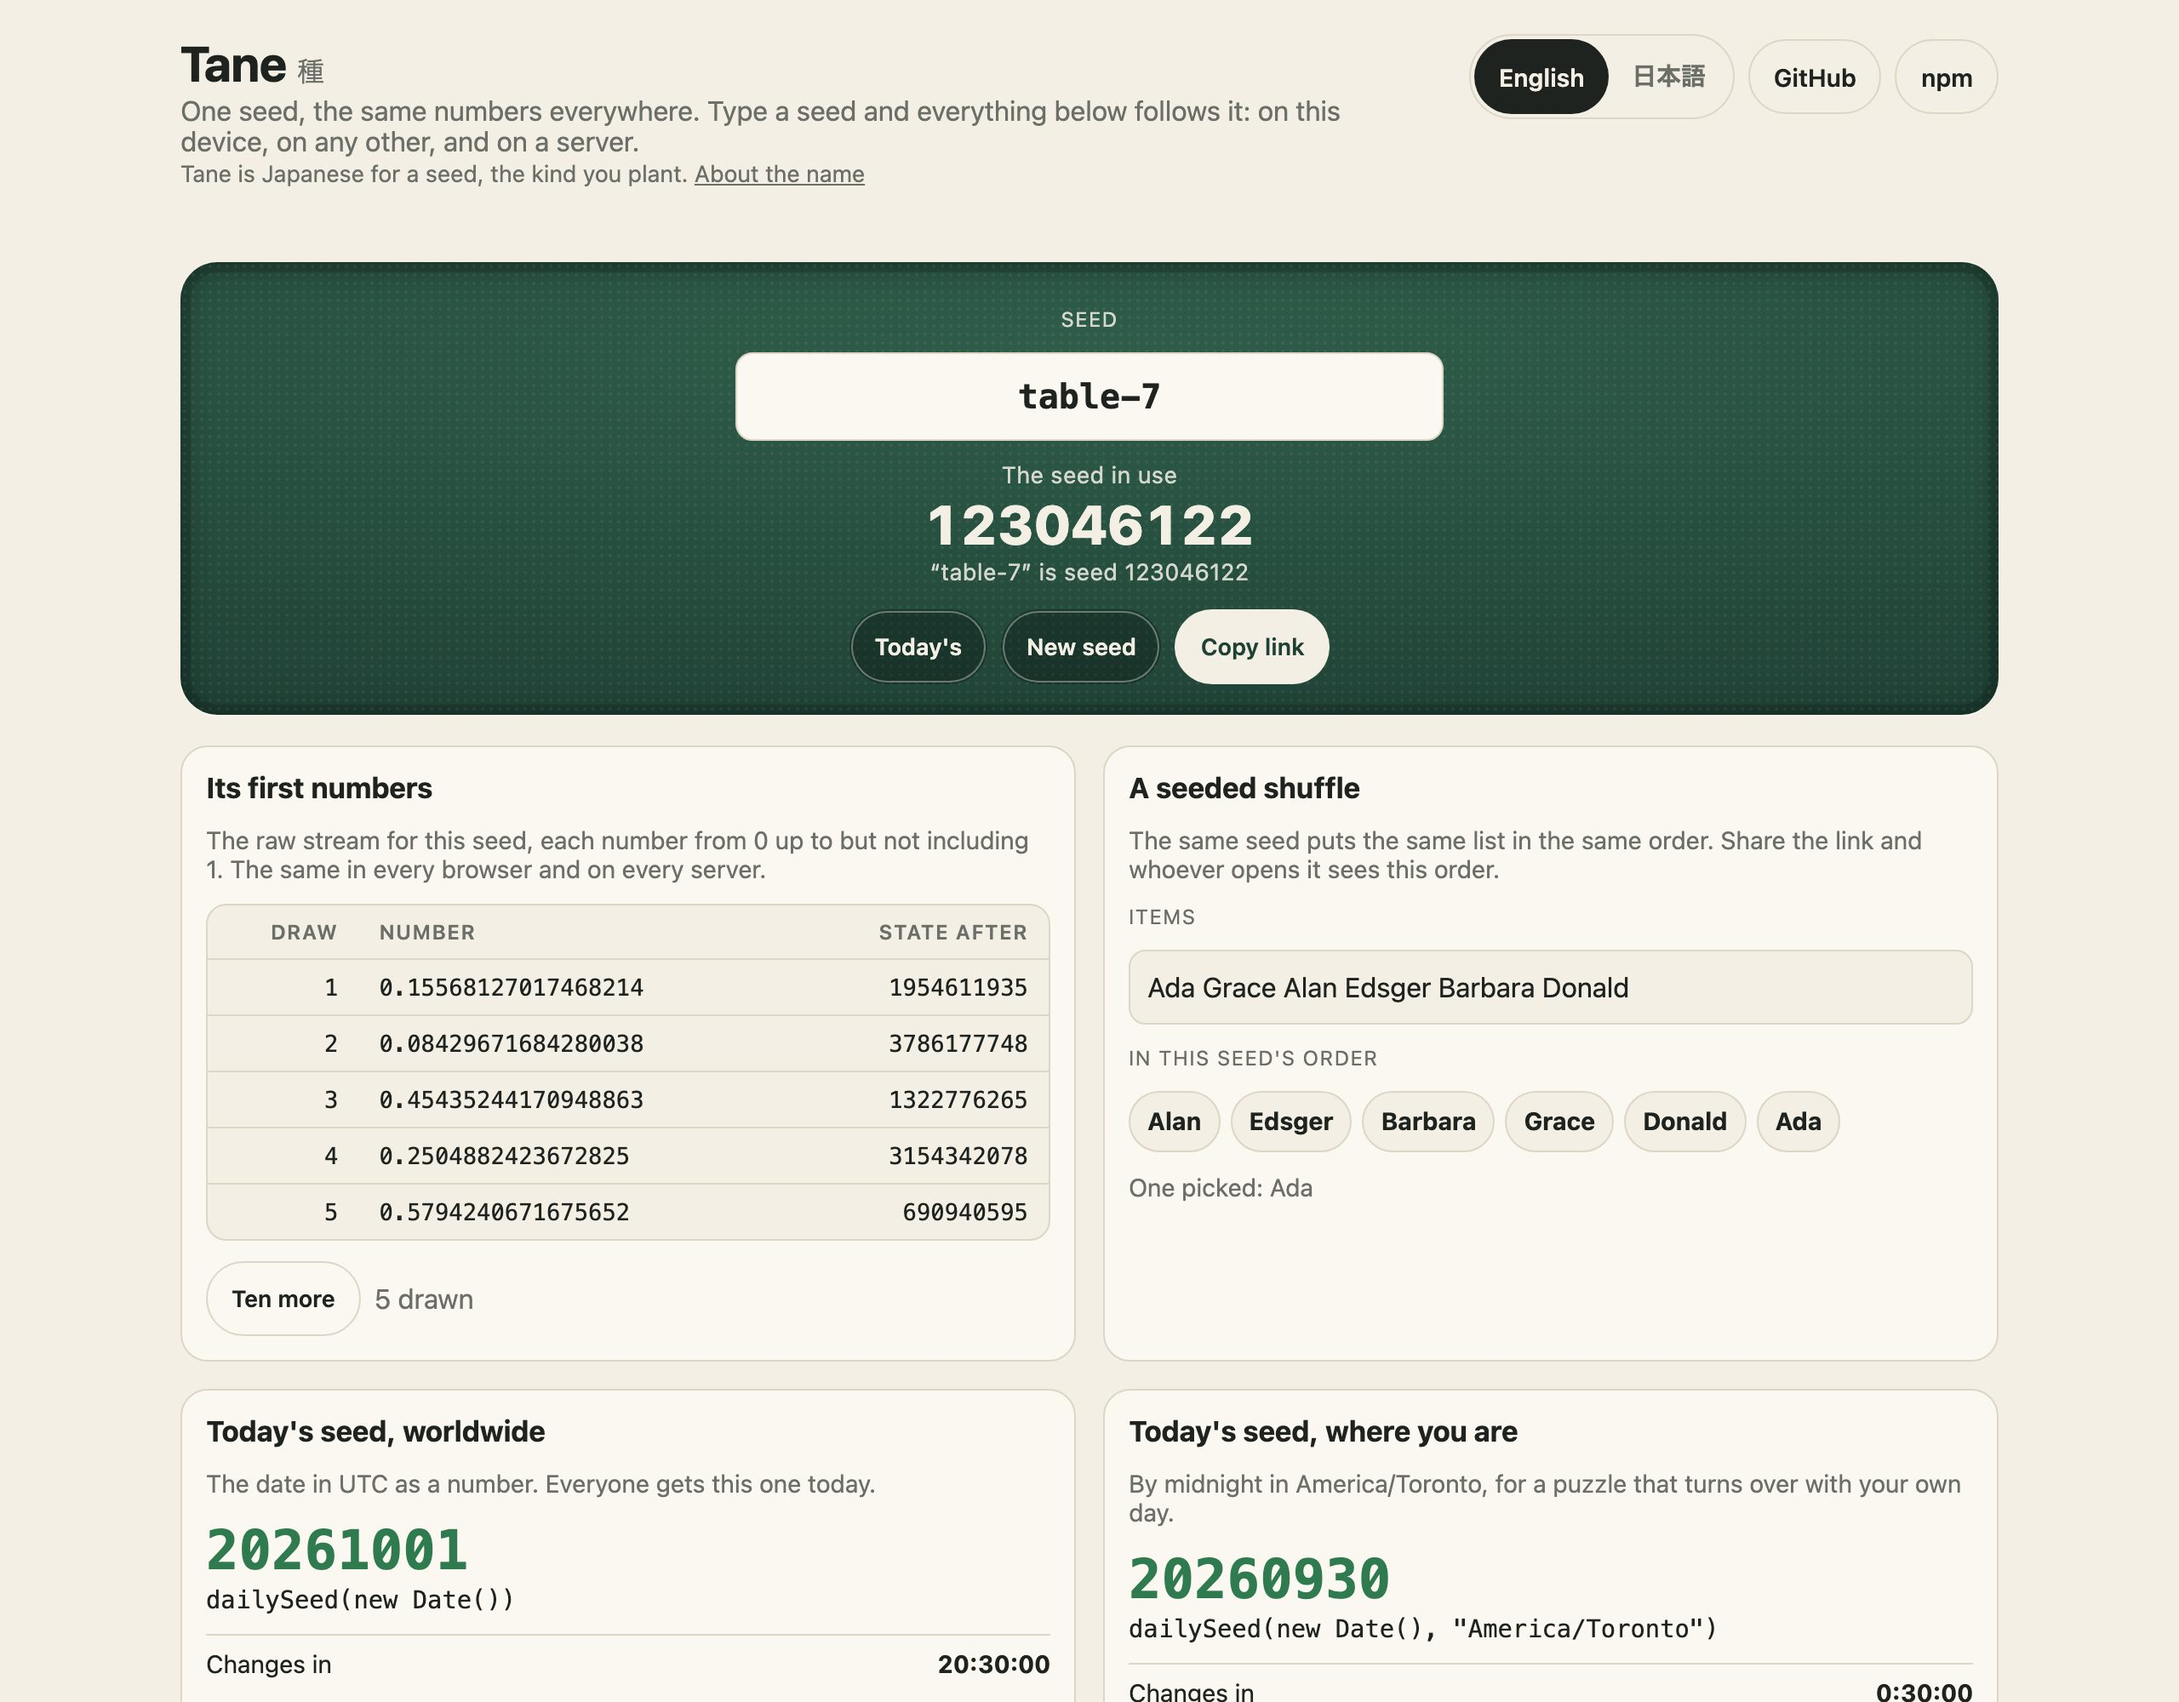
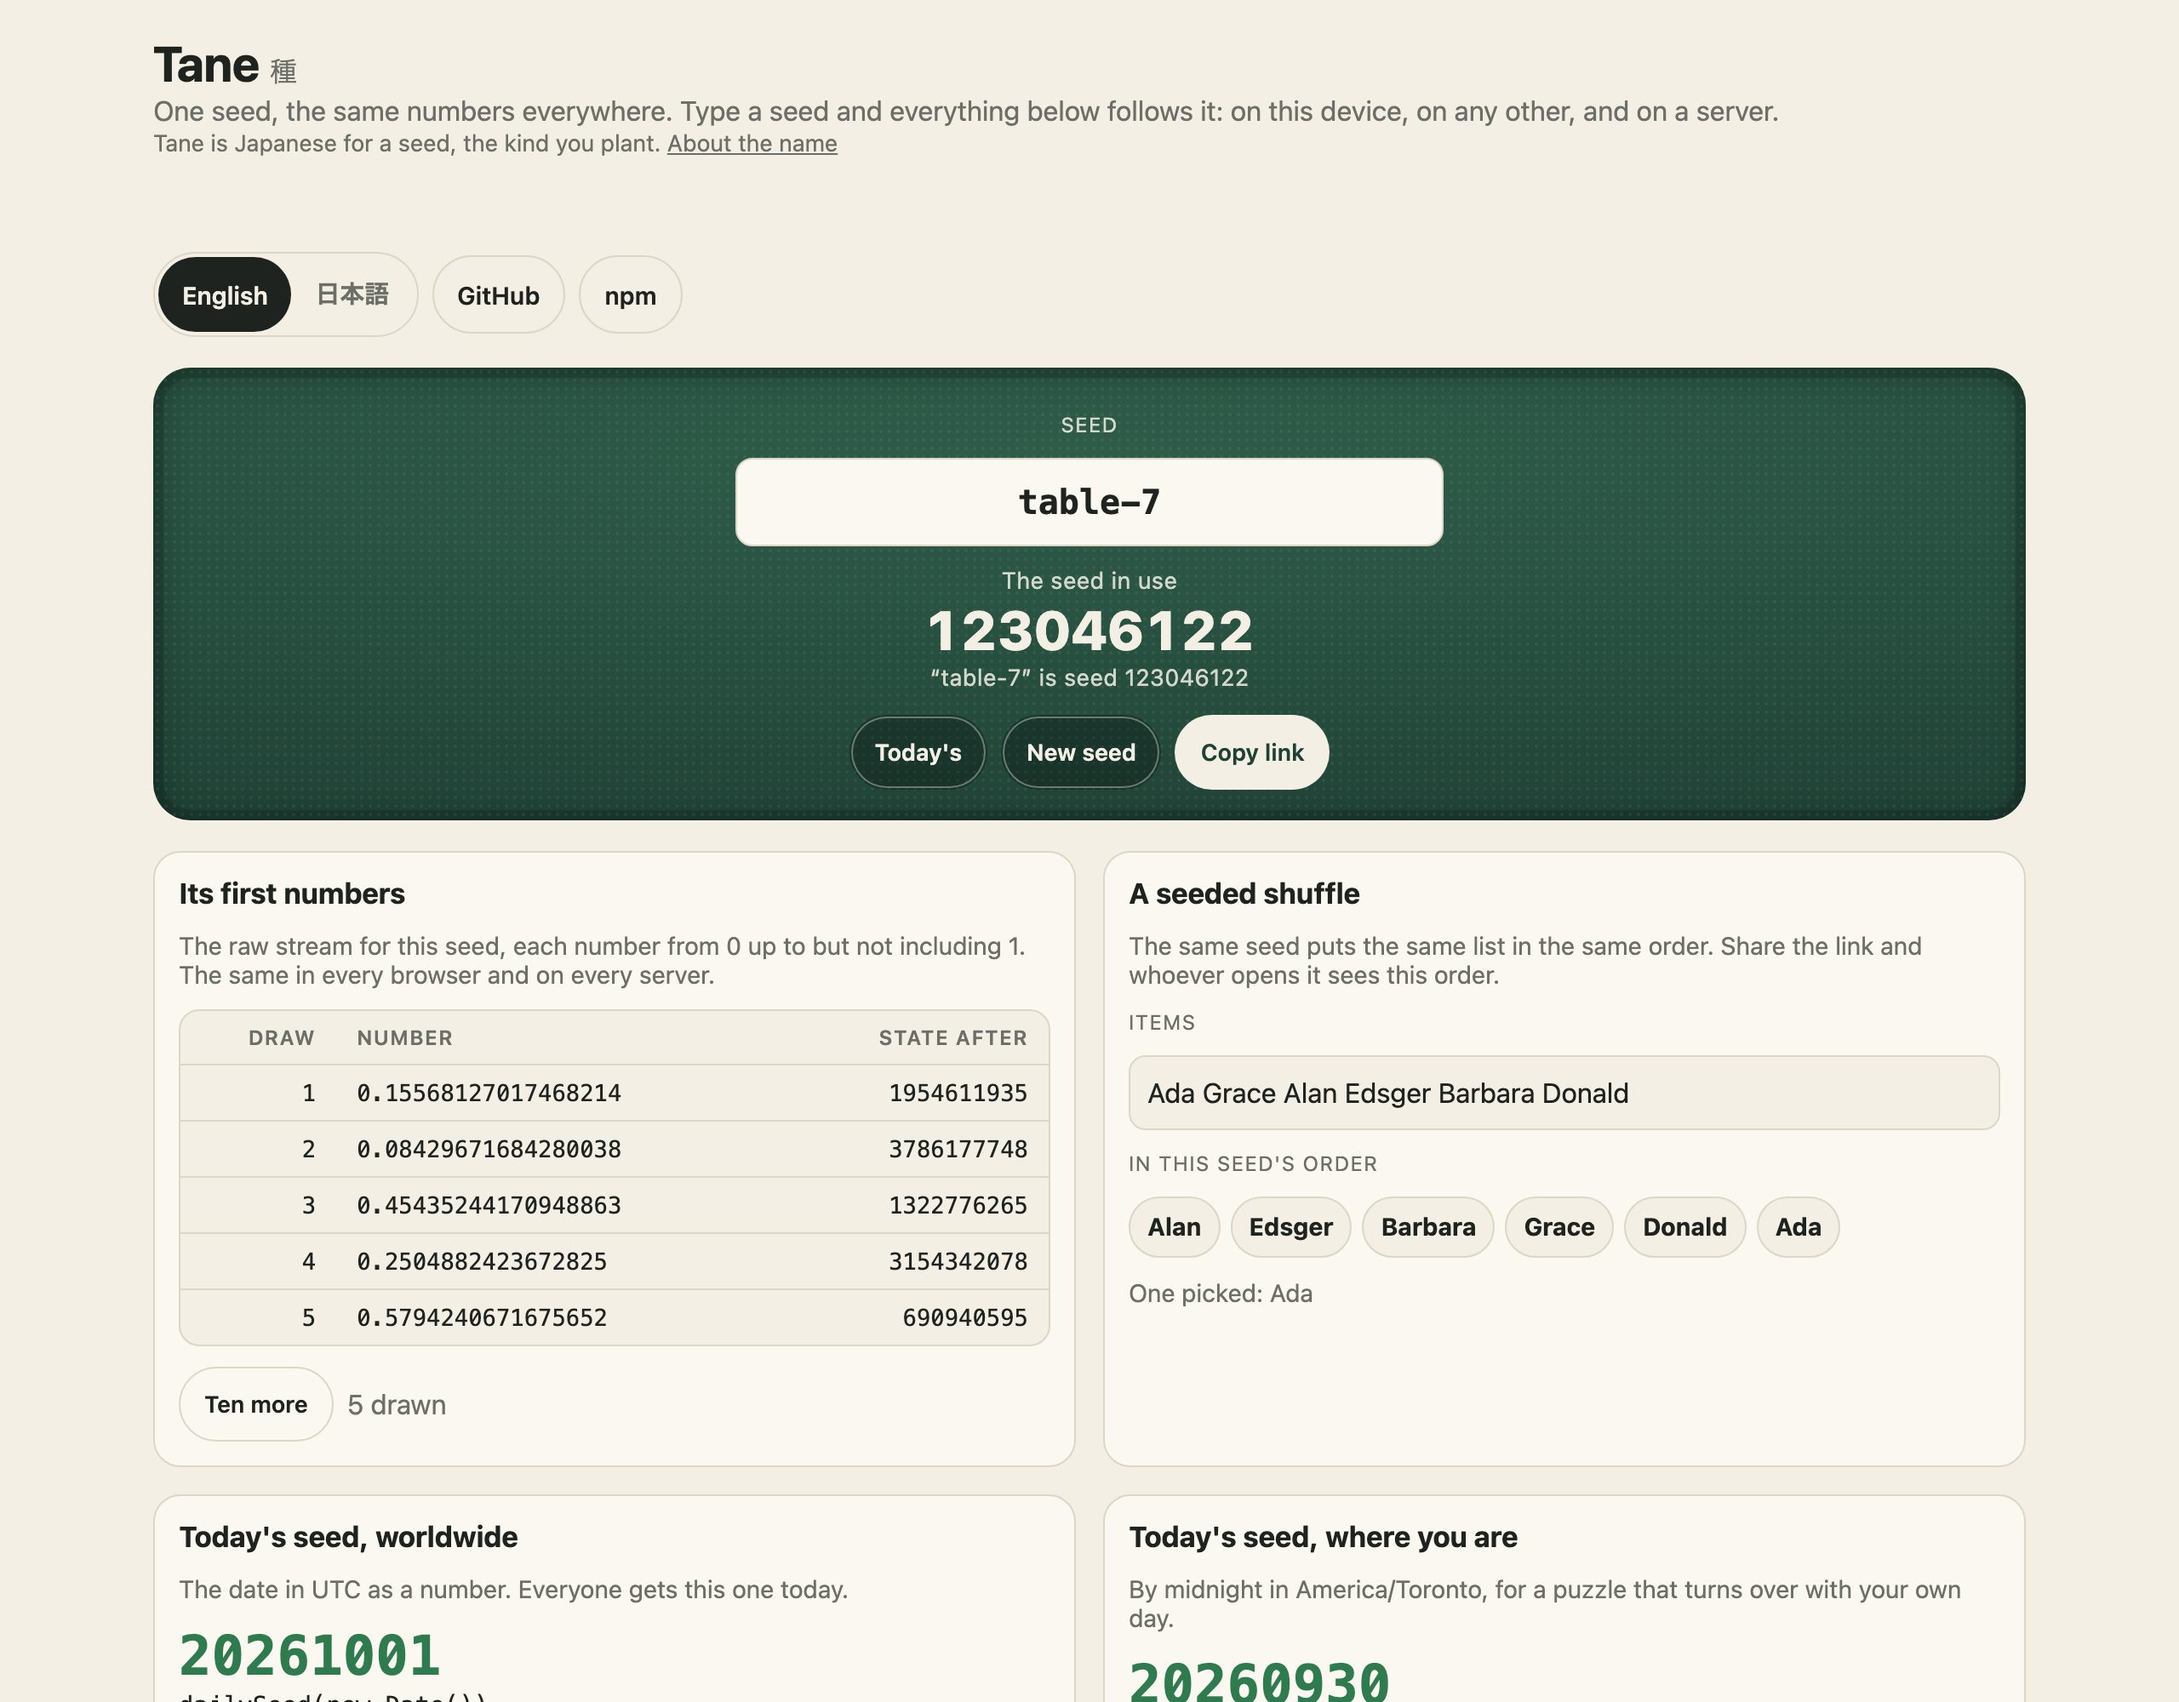
The family's stylesheet as corrected: the page's width, the header's pills and the footer's type match Korokoro's

diff --git a/demo/family.css b/demo/family.css
@@ -1,4 +1,4 @@
-/* sha256 of every line after this one: 527ca8e5c4261b555cb5c07ffe19cdf8ec85f7790b36a86a673c812631656d14 */
+/* sha256 of every line after this one: c1e392564a7fd94d0bb5cfaefb6d4fedfd147fc3e27f3a7afd8d8dac8c94a227 */
 /*
  * family.css: the one look of the johnmorrisdotca packages' demo sites
  * (korokoro, kyuubu, hitotsu, toranpu, tane, narabe, tenka, kumimoji).
@@ -50,7 +50,8 @@
 *, *::before, *::after { box-sizing: border-box; }
 html { -webkit-text-size-adjust: 100%; }
 body { margin: 0; background: var(--page); color: var(--ink); font-family: var(--font); -webkit-tap-highlight-color: transparent; }
-main { max-width: 1100px; margin: 0 auto; padding: 20px 16px 40px; }
+/* 1100px of content and a 16px gutter each side: 1132px under border-box. */
+main { max-width: 1132px; margin: 0 auto; padding: 20px 16px 40px; }
 main > * { min-width: 0; max-width: 100%; }
 a { color: inherit; }
 button, input, select, textarea { font: inherit; color: inherit; }
@@ -63,11 +64,12 @@ header { display: flex; align-items: flex-start; justify-content: space-between;
 h1 { margin: 0; font-size: 1.8rem; letter-spacing: -.01em; }
 h1 span { font-size: 1rem; color: var(--muted); margin-left: 6px; font-weight: 500; }
 header p { margin: 2px 0 0; color: var(--muted); }
-.intro { min-height: var(--intro-room); flex: 1 1 20rem; min-width: 0; }
+.intro { min-height: var(--intro-room); }
 @media (min-width: 700px) { .intro { min-height: var(--intro-room-wide); } }
 .name { margin: 2px 0 0; color: var(--muted); font-size: .85rem; }
 nav { display: flex; gap: 8px; align-items: center; flex-wrap: wrap; }
-nav a { text-decoration: none; color: inherit; border: 1px solid var(--rule); border-radius: 999px; padding: 0 14px; min-height: 44px; display: inline-flex; align-items: center; font-size: .9rem; font-weight: 600; }
+/* 44px inside a 1px border: 46px under border-box. */
+nav a { text-decoration: none; color: inherit; border: 1px solid var(--rule); border-radius: 999px; padding: 0 14px; min-height: 46px; display: inline-flex; align-items: center; font-size: .9rem; font-weight: 600; }
 nav a:hover { border-color: var(--ink); }
 
 /* 4. The language chooser. */
@@ -78,7 +80,7 @@ nav a:hover { border-color: var(--ink); }
 
 /* 5. The footer: a note, the install line and the licence, and the family. */
 footer { margin-top: 32px; padding-top: 16px; border-top: 1px solid var(--rule); font-size: .85rem; color: var(--muted); display: flex; flex-wrap: wrap; gap: 6px 18px; justify-content: space-between; }
-footer code { font-size: .8rem; }
+footer code { font-family: monospace; font-size: .8rem; }
 footer .family { flex: 1 1 100%; display: flex; flex-wrap: wrap; align-items: center; gap: 0 4px; }
 footer .family a { display: inline-flex; align-items: center; justify-content: center; min-width: 44px; min-height: 44px; padding: 0 6px; }
 footer .family a[aria-current="page"] { color: var(--ink); font-weight: 600; text-decoration: none; }

diff --git a/src/docs.test.js b/src/docs.test.js
@@ -365,7 +365,7 @@ describe("the README's framework examples", () => {
 
 describe("the family's look", () => {
   const css = readFileSync("demo/family.css", "utf8");
[2 lines of base64/hex data omitted]
 
   it("demo/family.css is the family's file, byte for byte: never edit it here", () => {
     const [first, ...rest] = css.split("\n");
